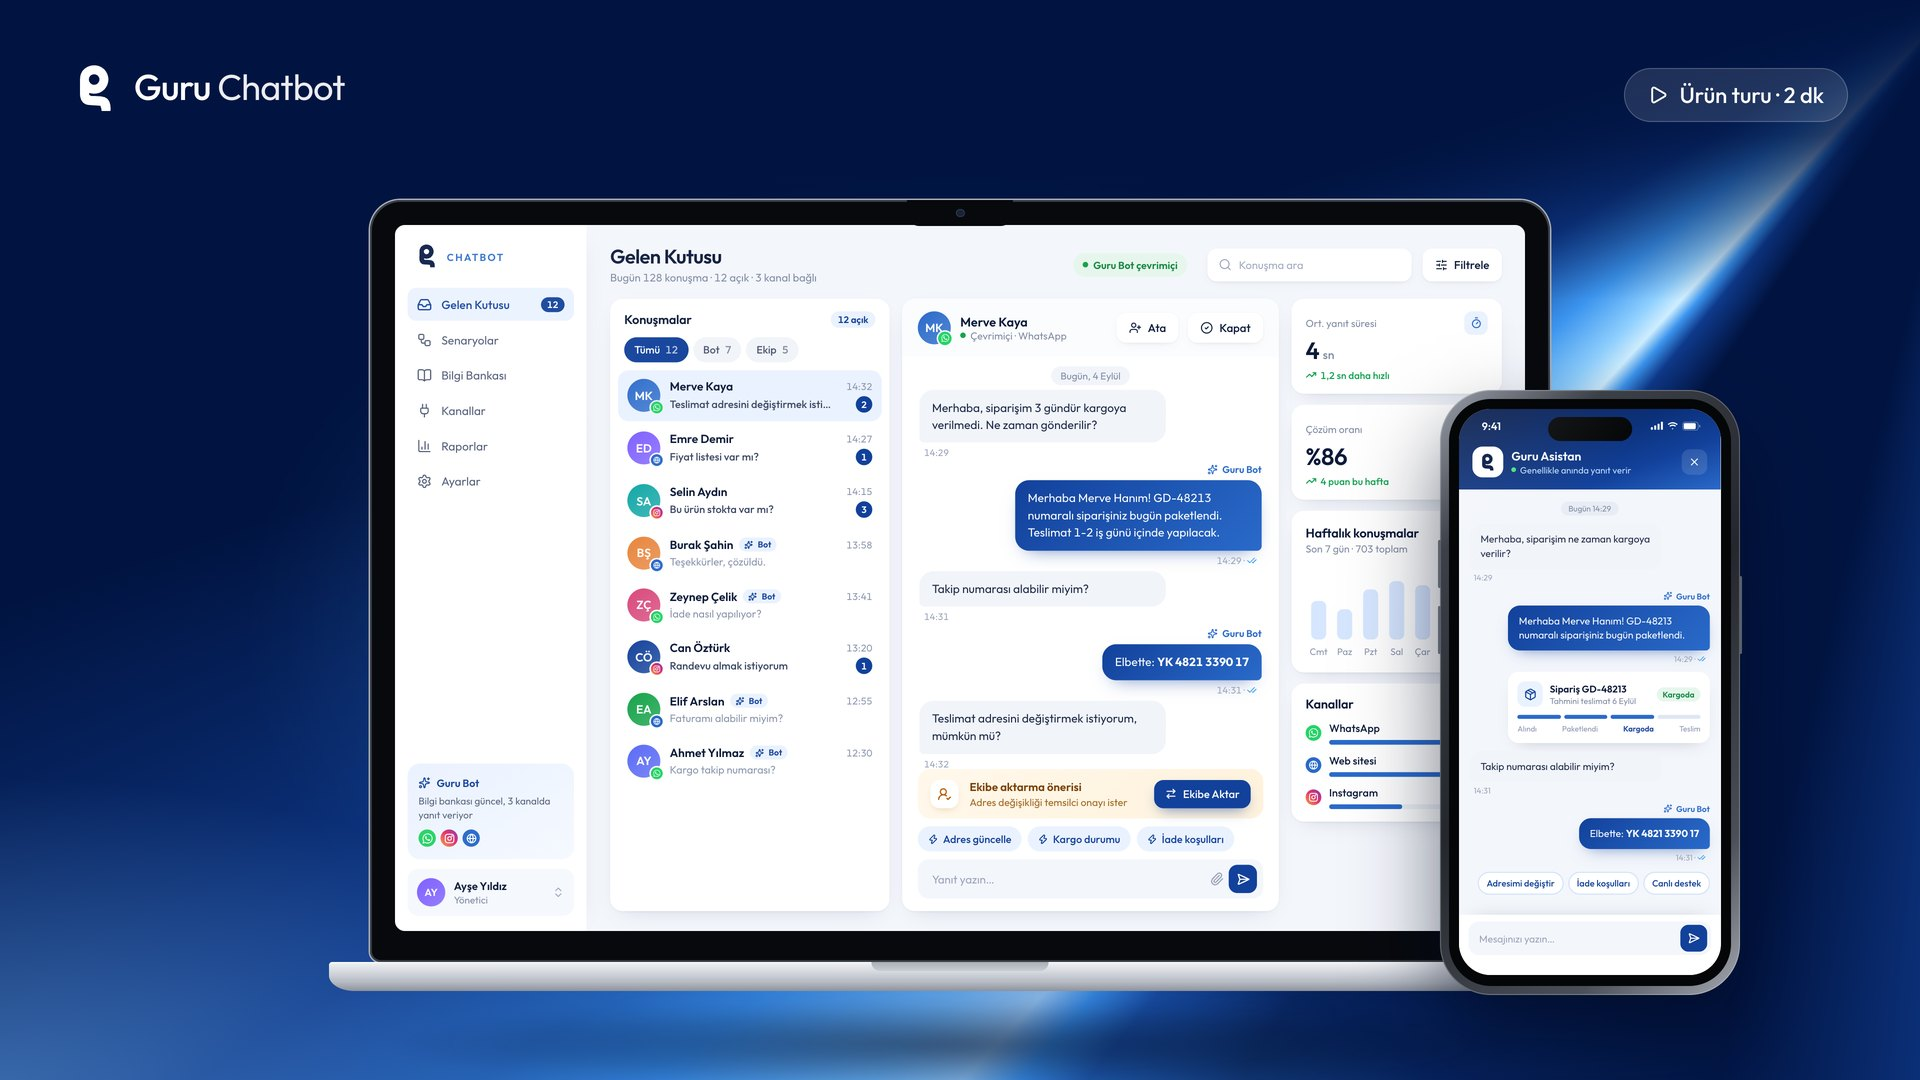
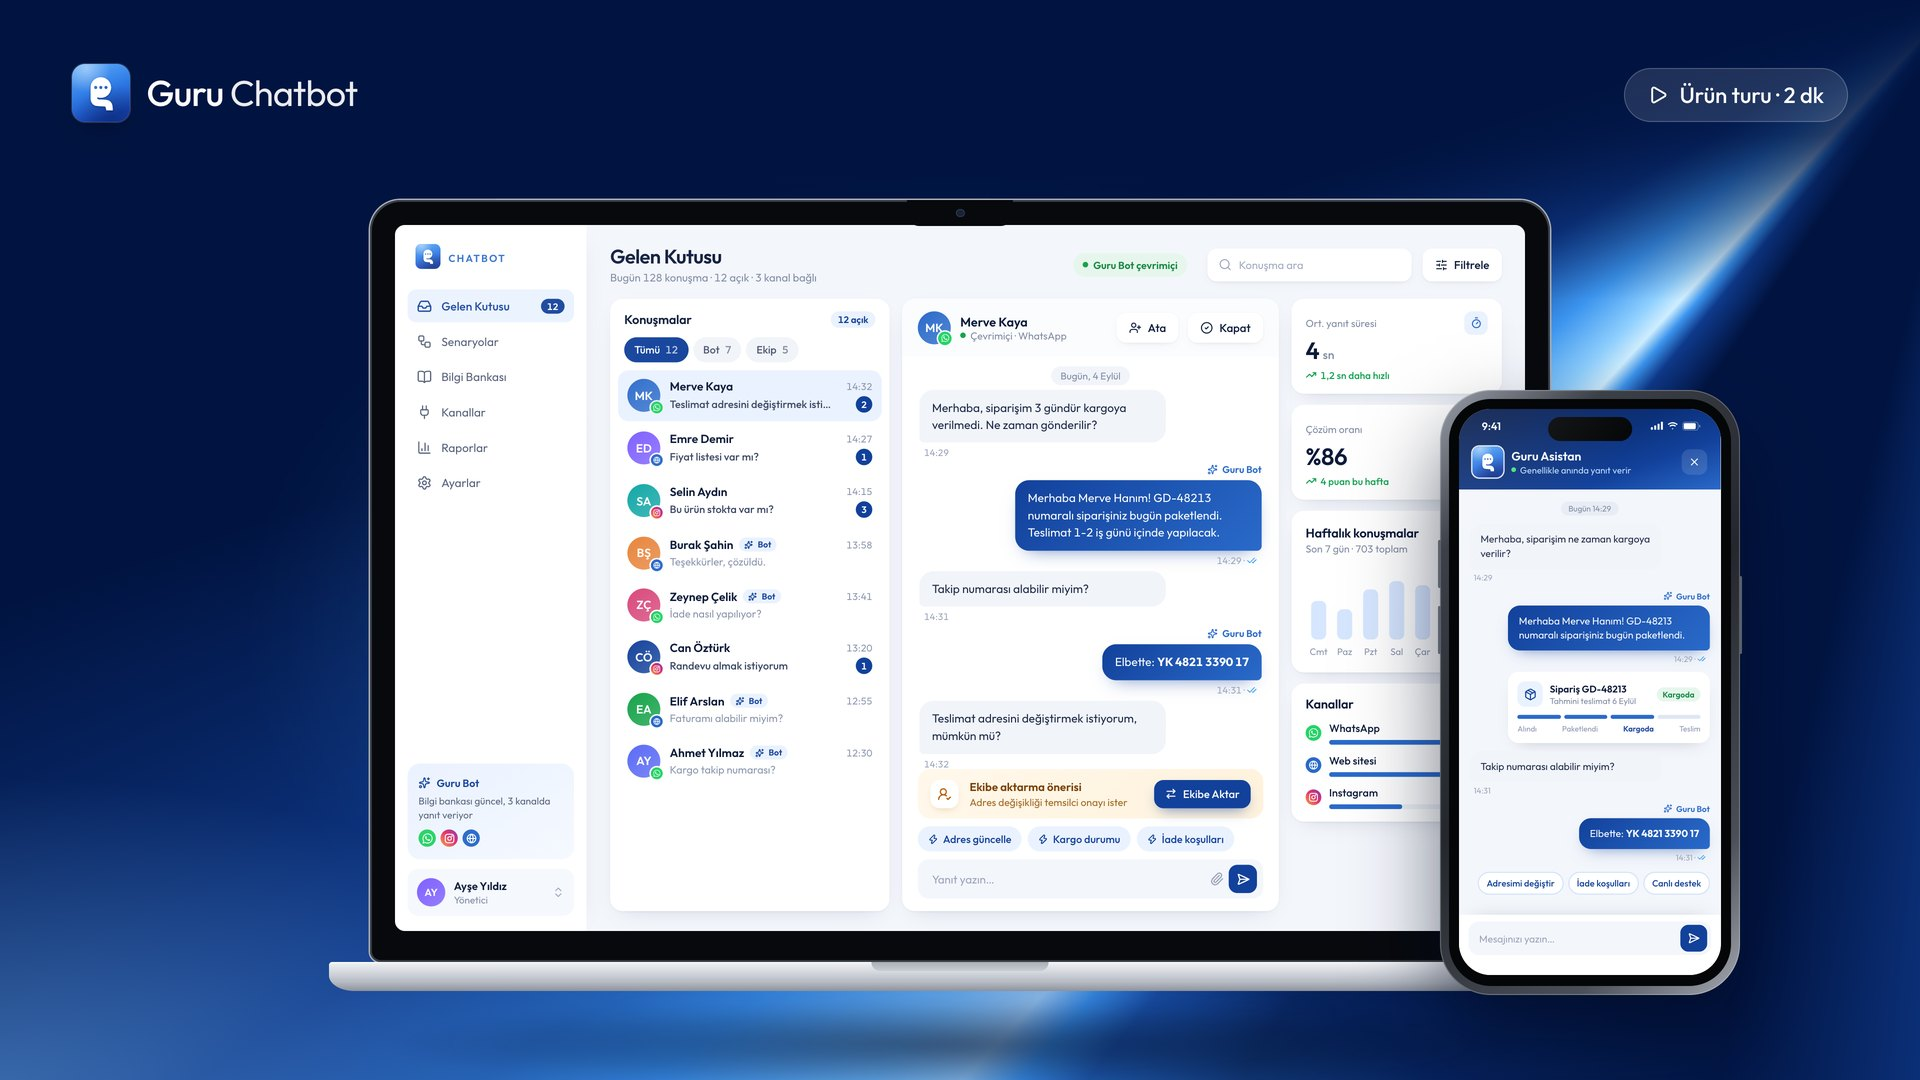
Ürün görselleri uygulama simgeleriyle, menüde tek panel
Ürün görsellerinde (giriş, kapak, öne çıkan ekranlar, ekran görüntüsü,
paylaşım ve video kapağı) g işareti ve genel ikonlar yerine ürünlerin
uygulama simgeleri. Panel medyası veri geçişiyle yeni adla (-v3) yüklenir.

Masaüstü menü: açık menü üst bileşende tutulur; menüler arası geçişte
eski panel 120 ms boyunca yenisinin altında görünmeye devam ediyordu.

diff --git a/src/migrations/data/urun-simgeleri.ts b/src/migrations/data/urun-simgeleri.ts
@@ -1,0 +1,72 @@
+import { copyFileSync, existsSync, mkdtempSync } from 'node:fs'
+import os from 'node:os'
+import path from 'node:path'
+import type { Payload, PayloadRequest } from 'payload'
+
+/**
+ * Ürün görselleri uygulama simgeleriyle yeniden üretildi (giriş, kapak, öne çıkan
+ * üç ekran, ekran görüntüsü). Yeni adla (-v3) yüklenir: görsel önbelleği aynı adı eski
+ * haliyle sunuyordu. Alt metinler eski medyadan aynen taşınır, eski medya silinir.
+ * Canlıda Postgres geçişiyle, yerelde src/payload/run-urun-simgeleri.ts ile çalışır;
+ * tekrar çalışırsa kopya üretmez. Bu dosya geçişe aittir.
+ */
+type Doc = Record<string, unknown> & { id: number }
+type Ref = number | { id: number } | null | undefined
+const ROOT = process.cwd()
+const ok = { overrideAccess: true } as const
+const PRODUCTS = ['guru-chatbot', 'guru-crm', 'guru-operation', 'guru-business']
+const idOf = (r: Ref) => (r && typeof r === 'object' ? r.id : (r ?? null))
+
+export async function urunSimgeleri(payload: Payload, req: PayloadRequest) {
+  const log = (m: string) => payload.logger.info(`[urun-simgeleri] ${m}`)
+  const tmpDir = mkdtempSync(path.join(os.tmpdir(), 'guru-'))
+
+  /* Yeni dosya bir kez yüklenir; alt metin eski medyadan gelir */
+  async function upload(rel: string, name: string, oldId: number | null): Promise<number | null> {
+    const file = path.join(ROOT, 'public', rel)
+    if (!existsSync(file)) {
+      log(`! dosya yok: public/${rel}`)
+      return null
+    }
+    const hit = await payload.find({ collection: 'media', where: { filename: { like: `${name.replace(/\.webp$/, '')}.` } }, limit: 1, depth: 0, req, ...ok })
+    if (hit.docs[0]) return hit.docs[0].id as number
+    const old = oldId ? ((await payload.findByID({ collection: 'media', id: oldId, depth: 0, req, ...ok }).catch(() => null)) as Doc | null) : null
+    const tmp = path.join(tmpDir, name)
+    copyFileSync(file, tmp)
+    const data: Record<string, unknown> = { alt: (old?.alt as string) || name }
+    if (old?.folder) data.folder = idOf(old.folder as Ref)
+    const doc = await payload.create({ collection: 'media', data: data as never, filePath: tmp, req, ...ok })
+    return doc.id as number
+  }
+
+  for (const slug of PRODUCTS) {
+    const r = await payload.find({ collection: 'products', where: { slug: { equals: slug } }, limit: 1, depth: 0, draft: true, req, ...ok })
+    const p = r.docs[0] as unknown as Doc | undefined
+    if (!p) continue
+    const old = { hero: idOf(p.heroVisual as Ref), cover: idOf(p.cover as Ref), shot: idOf(p.screenshot as Ref) }
+    const showcase = ((p.showcase as (Record<string, unknown> & { image: Ref })[]) ?? []).map((s) => ({ ...s, image: idOf(s.image) }))
+
+    const hero = await upload(`products/visuals/${slug}-hero.webp`, `${slug}-hero-v3.webp`, old.hero)
+    const cover = await upload(`products/covers/${slug}.webp`, `${slug}-kapak-v3.webp`, old.cover)
+    const shot = await upload(`products/screens/${slug}.webp`, `${slug}-ekran-v3.webp`, old.shot)
+    const shows: (number | null)[] = []
+    for (const [i, s] of showcase.entries()) shows.push(await upload(`products/visuals/${slug}-${i + 1}.webp`, `${slug}-${i + 1}-v3.webp`, s.image))
+
+    const data: Record<string, unknown> = { _status: 'published' }
+    if (hero) data.heroVisual = hero
+    if (cover) data.cover = cover
+    if (shot) data.screenshot = shot
+    data.showcase = showcase.map((s, i) => ({ ...s, image: shows[i] ?? s.image }))
+    await payload.update({ collection: 'products', id: p.id, data: data as never, req, ...ok })
+
+    /* Yerine yenisi geçen eski medya silinir */
+    const replaced = [
+      [old.hero, hero],
+      [old.cover, cover],
+      [old.shot, shot],
+      ...showcase.map((s, i) => [s.image, shows[i]] as const),
+    ].filter(([o, n]) => o && n && o !== n)
+    for (const [o] of replaced) await payload.delete({ collection: 'media', id: o as number, req, ...ok }).catch(() => null)
+    log(`${slug}: ${replaced.length} görsel yenilendi`)
+  }
+}

diff --git a/src/components/site/SiteHeader.tsx b/src/components/site/SiteHeader.tsx
@@ -2,7 +2,7 @@
 
 import Link from "next/link";
 import { usePathname } from "next/navigation";
-import { useEffect, useId, useRef, useState } from "react";
+import { useEffect, useId, useMemo, useRef, useState } from "react";
 import { ArrowRight, ChevronDown, Menu, X } from "lucide-react";
 import type { NavGroup } from "@/lib/data";
 import { IconByName } from "@/lib/icons";
@@ -35,8 +35,18 @@ function TalkLink({ className, onClick }: { className?: string; onClick?: () => 
 /*  Masaüstü açılır menü                                               */
 /* ------------------------------------------------------------------ */
 
-function DesktopGroup({ group, active }: { group: NavGroup; active: boolean }) {
-  const [open, setOpen] = useState(false);
+/* Açık menü üst bileşende tutulur: aynı anda tek panel açık kalır, menüler arası geçiş anında olur */
+function DesktopGroup({
+  group,
+  active,
+  open,
+  setOpen,
+}: {
+  group: NavGroup;
+  active: boolean;
+  open: boolean;
+  setOpen: (open: boolean) => void;
+}) {
   const wide = (group.items?.length ?? 0) > 6;
   const id = useId();
   const closeTimer = useRef<number | null>(null);
@@ -75,7 +85,7 @@ function DesktopGroup({ group, active }: { group: NavGroup; active: boolean }) {
       window.removeEventListener("keydown", onKey);
       document.removeEventListener("mousedown", onDoc);
     };
-  }, [open]);
+  }, [open, setOpen]);
 
   const linkCls = cn(
     "inline-flex min-h-11 items-center gap-1 text-[15px] font-medium transition-colors hover:text-brand",
@@ -111,7 +121,7 @@ function DesktopGroup({ group, active }: { group: NavGroup; active: boolean }) {
         onClick={() => {
           const keep = hoverOpened.current;
           hoverOpened.current = false;
-          setOpen((v) => (keep ? true : !v));
+          setOpen(keep ? true : !open);
         }}
         className={linkCls}
       >
@@ -179,6 +189,15 @@ export function SiteHeader({ menu }: { menu: NavGroup[] }) {
   const pathname = usePathname();
   const [open, setOpen] = useState(false);
   const [expanded, setExpanded] = useState<string | null>(null);
+  const [desktopOpen, setDesktopOpen] = useState<string | null>(null);
+  /* Kapatma yalnız hâlâ açık olan menünün kendisinden gelirse geçerli: gecikmeli kapanış yeni açılanı kapatmaz */
+  const desktopSetters = useMemo(
+    () =>
+      Object.fromEntries(
+        menu.map((g) => [g.label, (v: boolean) => setDesktopOpen((cur) => (v ? g.label : cur === g.label ? null : cur))])
+      ),
+    [menu]
+  );
   const [scrolled, setScrolled] = useState(false);
   const toggleRef = useRef<HTMLButtonElement>(null);
   const panelRef = useRef<HTMLDivElement>(null);
@@ -191,6 +210,7 @@ export function SiteHeader({ menu }: { menu: NavGroup[] }) {
     setLastPath(pathname);
     setOpen(false);
     setExpanded(null);
+    setDesktopOpen(null);
   }
 
   useEffect(() => {
@@ -268,7 +288,13 @@ export function SiteHeader({ menu }: { menu: NavGroup[] }) {
 
         <nav aria-label="Ana menü" className="relative mx-auto hidden items-center gap-8 lg:flex">
           {menu.map((g) => (
-            <DesktopGroup key={g.label} group={g} active={isActive(g)} />
+            <DesktopGroup
+              key={g.label}
+              group={g}
+              active={isActive(g)}
+              open={desktopOpen === g.label}
+              setOpen={desktopSetters[g.label]}
+            />
           ))}
         </nav>
 

diff --git a/src/migrations/index.ts b/src/migrations/index.ts
@@ -27,6 +27,7 @@ import * as migration_20261016_060000_mobil_galeri_veri from './20261016_060000_
 import * as migration_20261016_070000_web_usre_duzeltme from './20261016_070000_web_usre_duzeltme';
 import * as migration_20261016_080000_eticaret_platformlar from './20261016_080000_eticaret_platformlar';
 import * as migration_20261016_090000_karolar_ortalandi from './20261016_090000_karolar_ortalandi';
+import * as migration_20261016_100000_urun_simgeleri from './20261016_100000_urun_simgeleri';
 
 export const migrations = [
   {
@@ -173,5 +174,10 @@ export const migrations = [
     up: migration_20261016_090000_karolar_ortalandi.up,
     down: migration_20261016_090000_karolar_ortalandi.down,
     name: '20261016_090000_karolar_ortalandi',
+  },
+  {
+    up: migration_20261016_100000_urun_simgeleri.up,
+    down: migration_20261016_100000_urun_simgeleri.down,
+    name: '20261016_100000_urun_simgeleri',
   },
 ];

diff --git a/src/payload/run-urun-simgeleri.ts b/src/payload/run-urun-simgeleri.ts
@@ -1,0 +1,12 @@
+/**
+ * Uygulama simgeli ürün görsellerini yerel veritabanına uygular.
+ *   npm run payload run src/payload/run-urun-simgeleri.ts < /dev/null
+ */
+import { createLocalReq, getPayload } from "payload";
+import config from "@payload-config";
+import { urunSimgeleri } from "@/migrations/data/urun-simgeleri";
+
+const payload = await getPayload({ config });
+const req = await createLocalReq({}, payload);
+await urunSimgeleri(payload, req);
+process.exit(0);

diff --git a/src/migrations/20261016_100000_urun_simgeleri.ts b/src/migrations/20261016_100000_urun_simgeleri.ts
@@ -1,0 +1,11 @@
+import { MigrateUpArgs } from '@payloadcms/db-postgres'
+import { urunSimgeleri } from './data/urun-simgeleri'
+
+/** Ürün görselleri uygulama simgeleriyle yenilendi (yeni adla yüklenir, eskileri silinir). Şema değişikliği yok. */
+export async function up({ payload, req }: MigrateUpArgs): Promise<void> {
+  await urunSimgeleri(payload, req)
+}
+
+export async function down(): Promise<void> {
+  /* İçerik güncellemesi geri alınmaz */
+}
